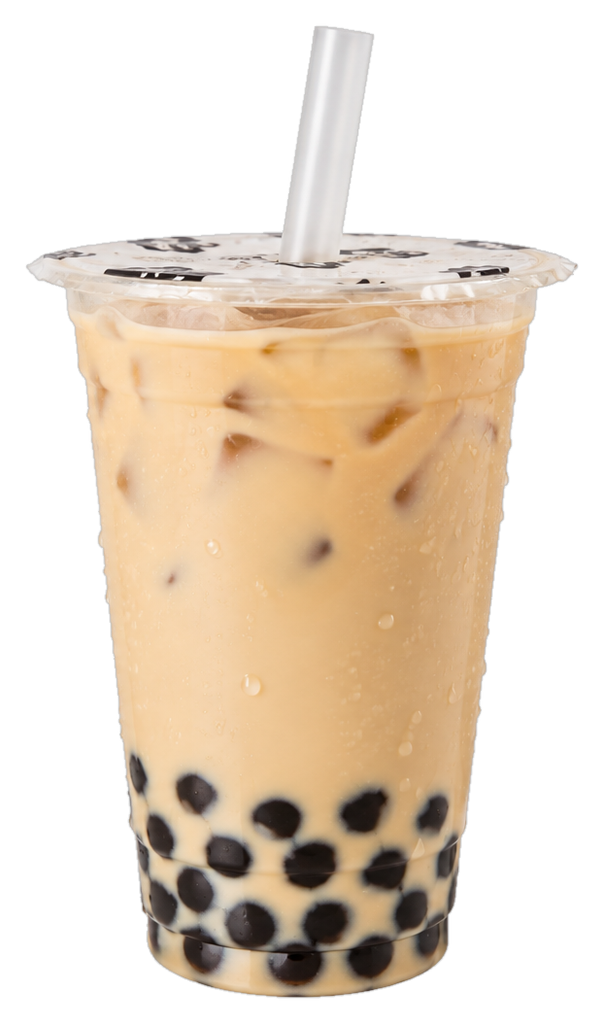
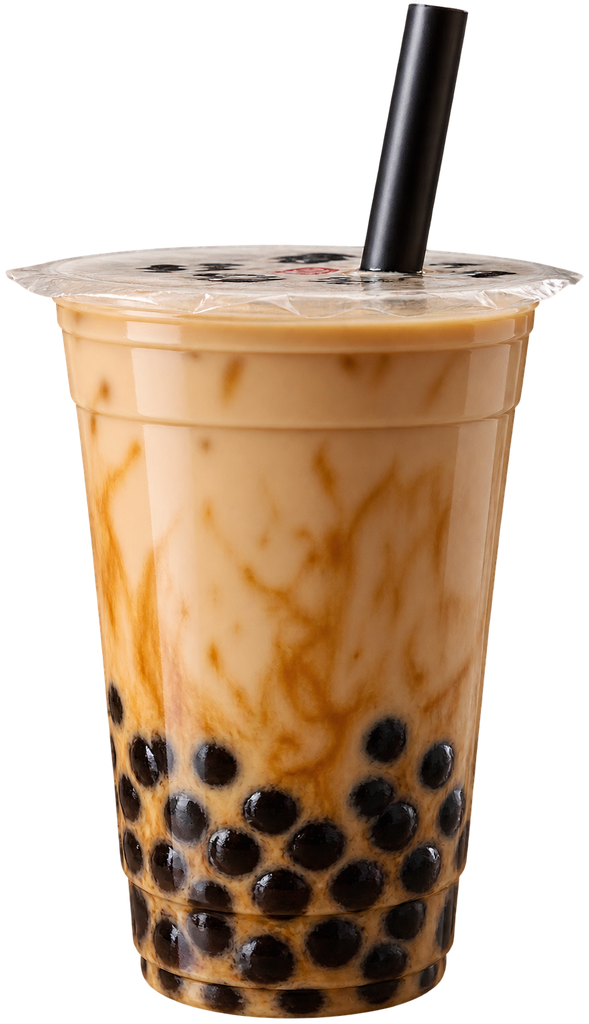
Sample 珍珠奶茶 from the owner's new picture; the status bar colour answered by the app window's own controllers
- The sample's cut-out and photo are the owner's black-background picture (already transparent); the edge pixels'
  dark colours are replaced by the colours inside so no dark fringe shows on light screens.
- statusBarTone now makes the app window's SwiftUI controllers report the style (StatusBarHook): the overlay window
  with its own controller was never asked by iOS, so the opening's blue, the night sky and the camera kept black text.

Claude-Session: https://claude.ai/code/session_01REsCyNvi1LWr2L9YgCNgyh

diff --git a/ios/CatchWords/Utilities/StatusBarStyle.swift b/ios/CatchWords/Utilities/StatusBarStyle.swift
@@ -1,11 +1,9 @@
 import SwiftUI
 import UIKit
+import ObjectiveC
 
-/// Status-bar text colour per screen. SwiftUI has no status-bar-style modifier and the app's root
-/// hosting controller belongs to SwiftUI, so the style is owned by a transparent window that sits
-/// one level above the app's window: the topmost visible window's root view controller decides the
-/// status bar's appearance. The window never takes touches (user interaction off → hit-testing falls
-/// through to the app's window), never becomes key and has no accessibility elements.
+/// Status-bar text colour per screen. SwiftUI has no status-bar-style modifier, so screens ask for a tone
+/// (`statusBarTone`) and the app window's SwiftUI controllers report it (`StatusBarHook`).
 enum StatusBarTone: Equatable {
     /// White text: dark full-screen views (camera, scan, analysing, reward, the memorial reveal).
     case light
@@ -21,11 +19,15 @@ enum StatusBarTone: Equatable {
 final class StatusBarController {
     static let shared = StatusBarController()
 
-    private var window: UIWindow?
-    private let host = StatusBarHostController()
+    /// The app's window (the one SwiftUI made), whose view controllers decide the status bar.
+    private weak var window: UIWindow?
     /// Screens on screen now, in the order they appeared: the last one is on top and wins, except that a covering
     /// view (one drawn over everything, like the opening `LaunchIntro`) wins over screens that appear under it.
     private var requests: [(id: UUID, tone: StatusBarTone, covering: Bool)] = []
+
+    /// The style and visibility the app's view controllers report (`StatusBarHook`).
+    private(set) var style: UIStatusBarStyle = .darkContent
+    private(set) var hidden: Bool = false
 
     /// The app's effective colour scheme (theme setting), reported by RootView.
     var baseScheme: ColorScheme = .light {
@@ -34,18 +36,14 @@ final class StatusBarController {
 
     private init() {}
 
-    func install(in scene: UIWindowScene) {
-        if let window, window.windowScene === scene { return }
-        let w = UIWindow(windowScene: scene)
-        w.windowLevel = UIWindow.Level(rawValue: UIWindow.Level.normal.rawValue + 1)
-        w.backgroundColor = .clear
-        w.isOpaque = false
-        w.isUserInteractionEnabled = false
-        w.accessibilityElementsHidden = true
-        w.rootViewController = host
-        w.isHidden = false
-        window = w
-        update()
+    /// Owner 2026-10-29 (「時計の色最適化して」): the status bar is decided by the app window's own view controllers. An
+    /// overlay window with its own controller used to hold the style, but iOS never asked it (the CI pictures showed
+    /// black text over the opening's blue, the night sky and the camera); the app's SwiftUI controllers are now made to
+    /// report this controller's style (`StatusBarHook`).
+    func install(in window: UIWindow) {
+        guard self.window !== window else { return }
+        self.window = window
+        update(force: true)
     }
 
     func set(_ id: UUID, _ tone: StatusBarTone, covering: Bool = false) {
@@ -64,42 +62,75 @@ final class StatusBarController {
         update()
     }
 
-    private func update() {
+    private func update(force: Bool = false) {
         let tone = (requests.last(where: { $0.covering }) ?? requests.last)?.tone ?? .automatic
-        let style: UIStatusBarStyle
+        let newStyle: UIStatusBarStyle
         switch tone {
-        case .light: style = .lightContent
-        case .dark: style = .darkContent
-        case .automatic, .hidden: style = baseScheme == .dark ? .lightContent : .darkContent
+        case .light: newStyle = .lightContent
+        case .dark: newStyle = .darkContent
+        case .automatic, .hidden: newStyle = baseScheme == .dark ? .lightContent : .darkContent
         }
-        let hidden = tone == .hidden
-        guard host.style != style || host.hidden != hidden else { return }
-        host.style = style
-        host.hidden = hidden
-        UIView.animate(withDuration: 0.25) { self.host.setNeedsStatusBarAppearanceUpdate() }
+        let newHidden = tone == .hidden
+        guard force || style != newStyle || hidden != newHidden else { return }
+        style = newStyle
+        hidden = newHidden
+        apply()
+    }
+
+    /// Every controller from the window's root up the presented ones reports the style; the one iOS asks redraws.
+    func apply() {
+        guard let root = window?.rootViewController else { return }
+        var vc: UIViewController? = root
+        var chain: [UIViewController] = []
+        while let c = vc {
+            chain.append(c)
+            StatusBarHook.patch(c)
+            vc = c.presentedViewController
+        }
+        UIView.animate(withDuration: 0.25) {
+            for c in chain { c.setNeedsStatusBarAppearanceUpdate() }
+        }
     }
 }
 
-/// The overlay window's (empty, transparent) root view controller.
-final class StatusBarHostController: UIViewController {
-    var style: UIStatusBarStyle = .darkContent
-    var hidden: Bool = false
+/// Makes a view controller's class report `StatusBarController`'s style (SwiftUI's hosting controllers report the
+/// colour scheme's, and there is no SwiftUI modifier for it). Each class is patched once; only the app's own
+/// SwiftUI hosting controllers are patched (a system controller presented over them, like the photo picker, keeps
+/// its own status bar).
+@MainActor
+enum StatusBarHook {
+    private static var patched: Set<ObjectIdentifier> = []
 
-    override var preferredStatusBarStyle: UIStatusBarStyle { style }
-    override var prefersStatusBarHidden: Bool { hidden }
-    override var preferredStatusBarUpdateAnimation: UIStatusBarAnimation { .fade }
-    override var supportedInterfaceOrientations: UIInterfaceOrientationMask { .portrait }
+    static func patch(_ vc: UIViewController) {
+        guard let cls = object_getClass(vc) else { return }
+        let id = ObjectIdentifier(cls)
+        guard !patched.contains(id) else { return }
+        // SwiftUI's own controllers only (UIHostingController and its presentation controllers).
+        guard NSStringFromClass(cls).contains("SwiftUI") || NSStringFromClass(cls).contains("Hosting") else { return }
+        patched.insert(id)
+        let (style, hidden, noChild) = blocks()
+        class_replaceMethod(cls, #selector(getter: UIViewController.preferredStatusBarStyle), imp_implementationWithBlock(style), "q@:")
+        class_replaceMethod(cls, #selector(getter: UIViewController.prefersStatusBarHidden), imp_implementationWithBlock(hidden), "B@:")
+        class_replaceMethod(cls, #selector(getter: UIViewController.childForStatusBarStyle), imp_implementationWithBlock(noChild), "@@:")
+        class_replaceMethod(cls, #selector(getter: UIViewController.childForStatusBarHidden), imp_implementationWithBlock(noChild), "@@:")
+    }
 
-    override func loadView() {
-        let v = UIView()
-        v.backgroundColor = .clear
-        v.isOpaque = false
-        v.isUserInteractionEnabled = false
-        view = v
+    /// The replacement getters, made outside the main actor (Objective-C blocks carry no actor); iOS asks them on the
+    /// main thread.
+    nonisolated private static func blocks() -> (style: Any, hidden: Any, noChild: Any) {
+        let style: @convention(block) (UIViewController) -> Int = { _ in
+            MainActor.assumeIsolated { StatusBarController.shared.style.rawValue }
+        }
+        let hidden: @convention(block) (UIViewController) -> Bool = { _ in
+            MainActor.assumeIsolated { StatusBarController.shared.hidden }
+        }
+        // The controller decides itself instead of handing it to a child.
+        let noChild: @convention(block) (UIViewController) -> UIViewController? = { _ in nil }
+        return (style, hidden, noChild)
     }
 }
 
-/// Finds the scene the app's window lives in and installs the status-bar window there.
+/// Finds the app's window and hands it to `StatusBarController`.
 private struct StatusBarInstaller: UIViewRepresentable {
     func makeUIView(context: Context) -> InstallerView { InstallerView() }
     func updateUIView(_ uiView: InstallerView, context: Context) {}
@@ -107,8 +138,8 @@ private struct StatusBarInstaller: UIViewRepresentable {
     final class InstallerView: UIView {
         override func didMoveToWindow() {
             super.didMoveToWindow()
-            guard let scene = window?.windowScene else { return }
-            StatusBarController.shared.install(in: scene)
+            guard let window else { return }
+            StatusBarController.shared.install(in: window)
         }
     }
 }
@@ -131,7 +162,11 @@ private struct StatusBarToneModifier: ViewModifier {
 
     func body(content: Content) -> some View {
         content
-            .onAppear { StatusBarController.shared.set(id, tone, covering: covering) }
+            .onAppear {
+                StatusBarController.shared.set(id, tone, covering: covering)
+                // A screen shown in a full-screen cover sits on a new controller: patch it too.
+                Task { @MainActor in StatusBarController.shared.apply() }
+            }
             .onDisappear { StatusBarController.shared.remove(id) }
             .onChange(of: tone) { _, t in StatusBarController.shared.set(id, t) }
     }
@@ -144,7 +179,7 @@ extension View {
         modifier(StatusBarToneModifier(tone: tone, covering: covering))
     }
 
-    /// Installs the status-bar window; put once at the app's root, inside `.preferredColorScheme`.
+    /// Hands the app's window to `StatusBarController`; put once at the app's root, inside `.preferredColorScheme`.
     func statusBarRoot() -> some View {
         modifier(StatusBarRoot())
     }

diff --git a/CLAUDE.md b/CLAUDE.md
@@ -108,7 +108,7 @@
   訳さない（R25）。案内中はチャンクの黒い吹き出し（`SwapCoachMark`）を出さない。
   **見本の珍珠奶茶**（10-28 夜「1枚目の写真を撮る前から、一つの画像を実際にホーム画面、図鑑、復習に情報を入れておく…バブルティーの
   画像入れて」）: アプリに同梱（`SampleSticker`、`Resources/Onboarding/sample_word.json`・`sample_sticker_bubbletea.png`
-  — オーナーの白背景の写真を切り抜いた）。**サーバーに保存しない・AI を呼ばない**。id は `sample-` で始まる `Sticker`
+  — 2026-10-29 にオーナーの黒背景の写真（透明に抜いた PNG）に替えた。縁の暗い色は内側の色で置き換えた）。**サーバーに保存しない・AI を呼ばない**。id は `sample-` で始まる `Sticker`
   （`wordId` は空、仮保存と同じ扱い。snapshot・署名・アップロード・褒め・ウィジェット・統計の数（`DexStore.wordCount`）から外す）。
   オンボードが終わった時に入り（`SampleSticker.markAdded` → `DexStore.installSample`）、今日のアルバム・図鑑の 飲み物 No.001・
   復習（10分後に期限。採点は端末内 `SampleSticker.grade`）に出る。**チュートリアル後も残し**、「見本」の印（`SampleMark`）を付け、
@@ -131,6 +131,9 @@
   公式サイトはこの環境から開けなかったので、検索で読めた範囲）。行は答えるまで「選択してください」。
   **登録画面**: 「新規登録」を既定の形にし、Google・Apple のボタンを上に出す（前は登録の画面にメールの欄しか無かった）。
   アカウントのある人は下の「アカウントをお持ちの方は ログイン」で切り替える。ウェルカム画面の「メールでログイン」はログインの形で開く。
+- **時計（ステータスバー）の色**（2026-10-29「時計の色最適化して」）: 画面ごとの白・黒の切り替え（`statusBarTone`）は、アプリの
+  窓の SwiftUI の controller に答えさせる（`StatusBarHook`）。前の「上に重ねた透明な窓の controller」は iOS に読まれず、開く演出の青・
+  夜空・カメラでも時計が黒かった（CI の写真で確認）。
 - **エラーの記録は Sentry**（2026-10-27「Sentry を導入」）: iOS は `ErrorReporting`（プロジェクト `catchwords-ios`）、サーバは
   `server/src/lib/error-report.ts`（`catchwords-server`、500 番台だけ、SDK を使わず envelope を1回 POST）。送るのは落ちた記録・
   ハング・500 番台・`DevLog` の失敗（save / decode / auth / encounter）だけ。**画面の撮影・リプレイ・アカウント・IP・写真・
